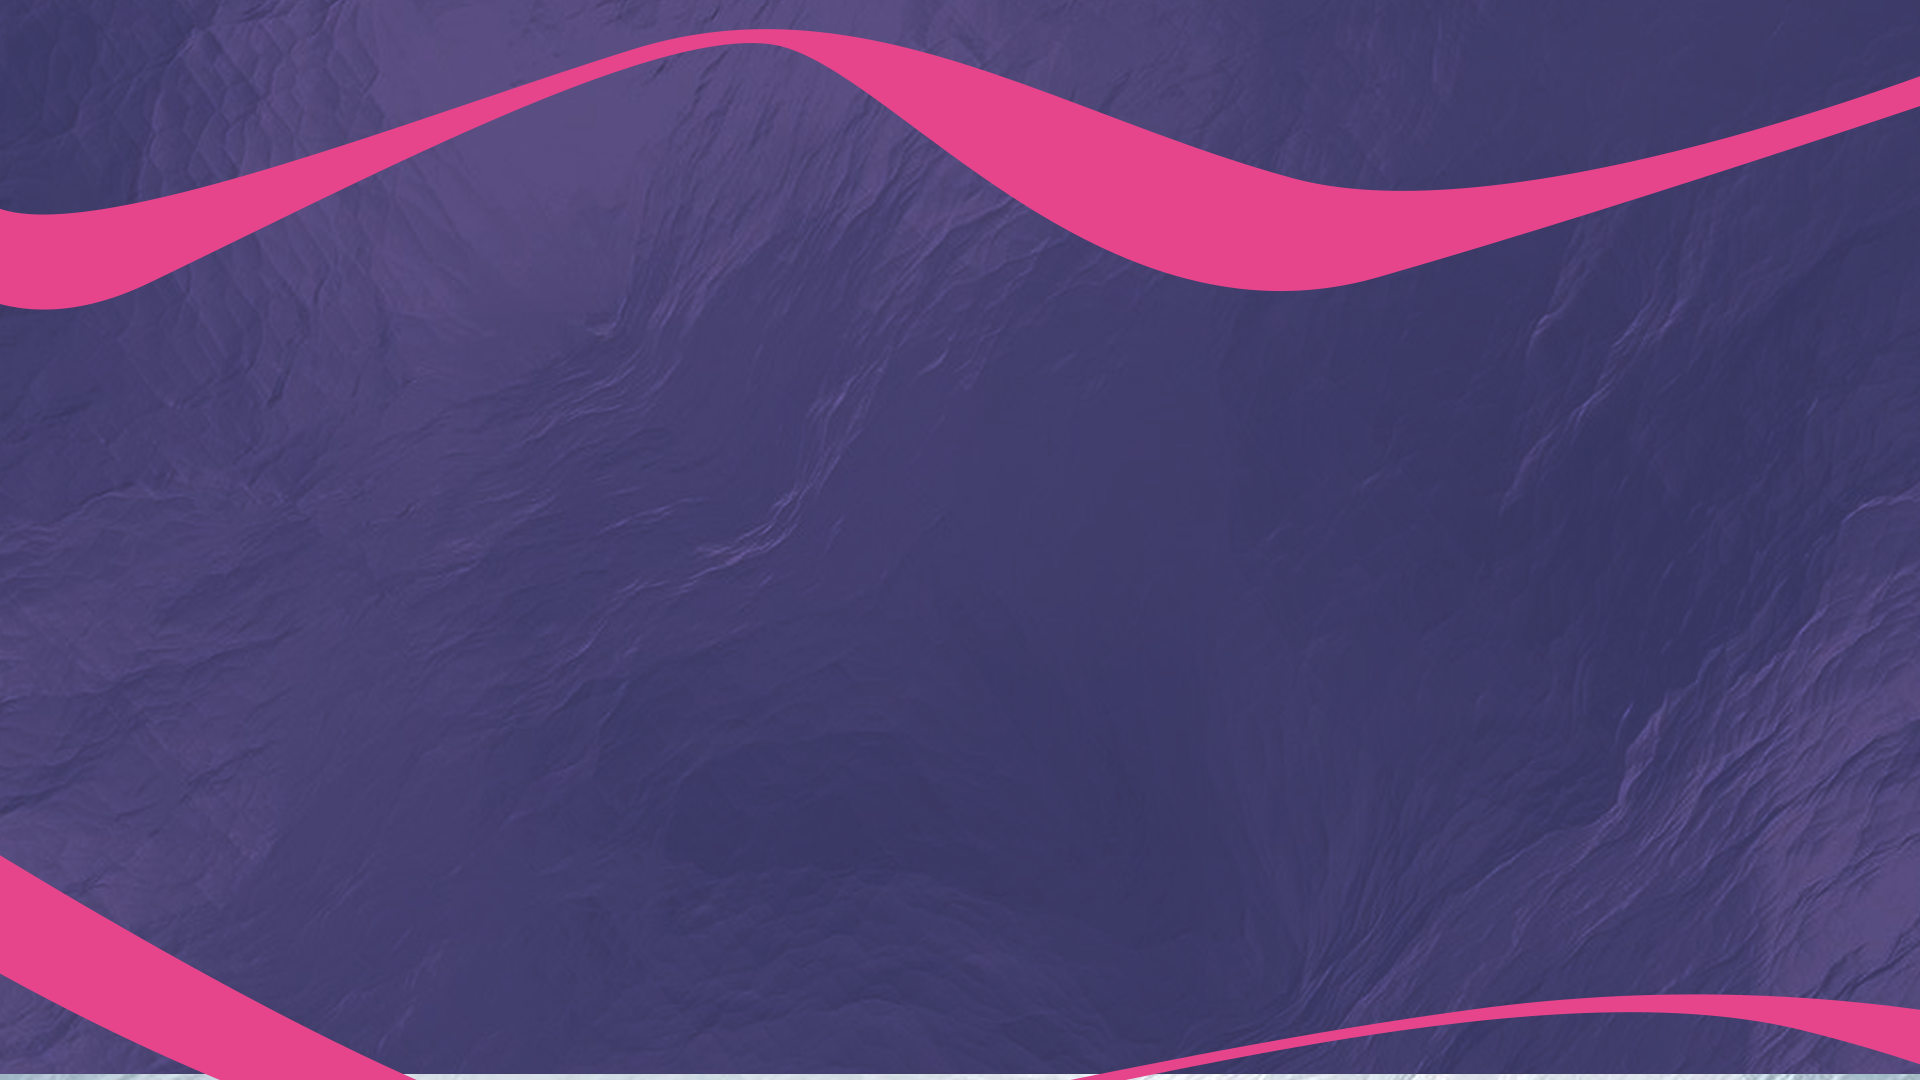
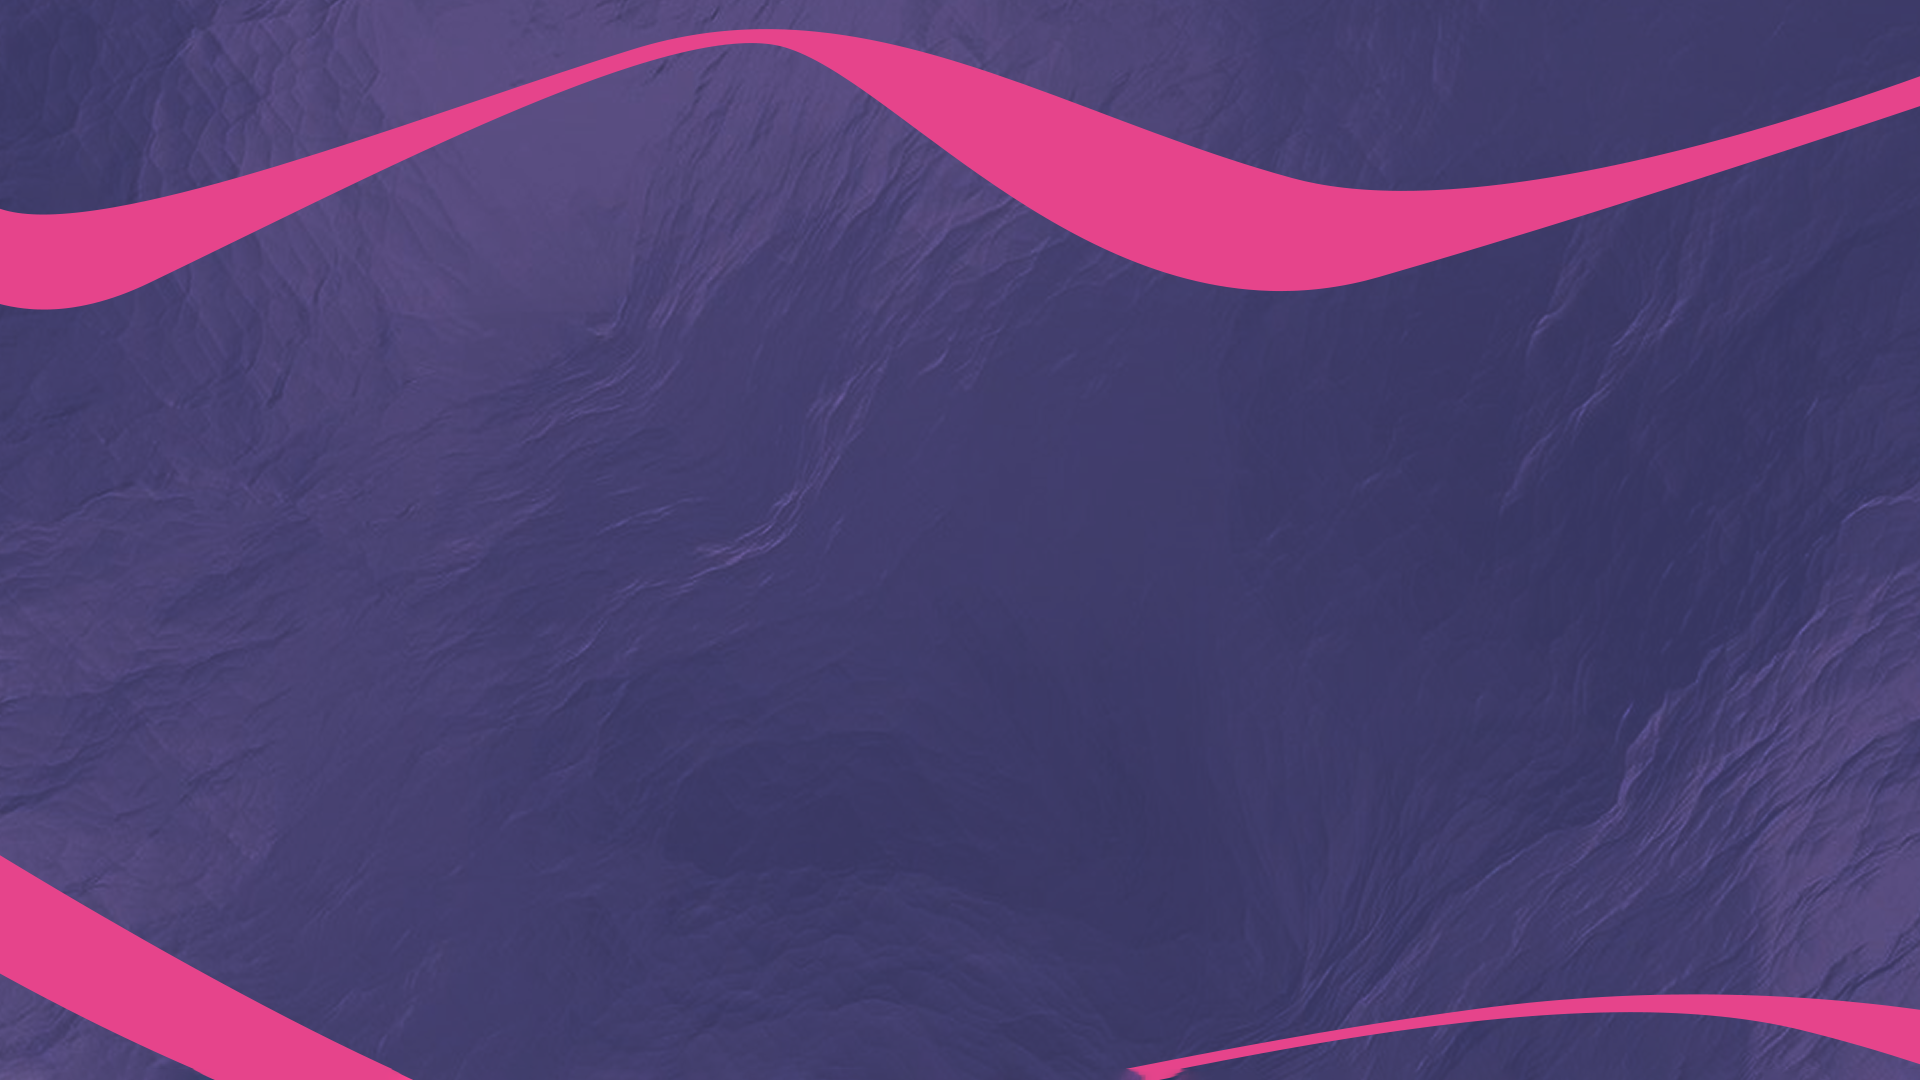
gallery mobile-tablet

Changed region(s): [[0.2188, 0.9778, 1.0, 1.0], [0.0, 0.9778, 0.125, 1.0]]

diff --git a/index.html b/index.html
@@ -114,8 +114,8 @@
     </section>
 
     <section id="client" class="flex items-center">
-        <div class="flex flex-col items-center w-full h-full p-8">
-            <h1 class="text-white text-4xl md:text-6xl 2xl:text-8xl font-black capitalize relative">OUR CLIENT</h1>
+        <div class="flex flex-col items-center w-full h-full p-12">
+            <h1 class="text-white text-4xl md:text-6xl 2xl:text-8xl font-black capitalize relative my-6">OUR CLIENT</h1>
             <div class="wrapper h-full w-full md:w-2/3 xl:w-1/2 flex flex-wrap items-center justify-center my-10">
                 <div class="w-1/4 p-3 md:p-6">
                     <div
@@ -197,6 +197,50 @@
                         class="client w-16 h-16 md:w-32 md:h-32 xl:w-28 xl:h-28 2xl:w-36 2xl:h-36 rounded-2xl md:rounded-3xl">
                     </div>
                 </div>
+            </div>
+        </div>
+    </section>
+
+    <section id="gallery" class="flex items-center">
+        <div class="flex flex-col items-center w-full h-full py-12">
+            <h1 class="text-white text-xl bg-neutral-800 rounded-md p-3">Gallery</h1>
+            <div class="wrapper h-full w-full md:w-3/4 flex flex-wrap items-center justify-center my-10">
+                <div class="w-1/2 md:w-1/3 xl:w-1/4 p-3 md:p-6">
+                    <div class="border-2 border-pink-500 rounded-lg bg-blue-100 h-72 mt-4"></div>
+                </div>
+                <div class="w-1/2 md:w-1/3 xl:w-1/4 p-3 md:p-6">
+                    <div class="border-2 border-pink-500 rounded-lg bg-blue-100 h-72 mt-[-6rem] md:mt-[-3rem]"></div>
+                </div>
+                <div class="w-1/2 md:w-1/3 xl:w-1/4 p-3 md:p-6">
+                    <div class="border-2 border-pink-500 rounded-lg bg-blue-100 h-72 mt-4"></div>
+                </div>
+                <div class="w-1/2 md:w-1/3 xl:w-1/4 p-3 md:p-6">
+                    <div class="border-2 border-pink-500 rounded-lg bg-blue-100 h-72 mt-[-6rem] md:mt-[-3rem]"></div>
+                </div>
+                <!-- <div class="w-1/2 md:w-1/3 xl:w-1/4 p-3 md:p-6">
+                    <div class="border-2 border-pink-500 rounded-lg bg-blue-100 h-72 mt-4"></div>
+                </div>
+                <div class="w-1/2 md:w-1/3 xl:w-1/4 p-3 md:p-6">
+                    <div class="border-2 border-pink-500 rounded-lg bg-blue-100 h-72 mt-[-6rem] md:mt-[-3rem]"></div>
+                </div>
+                <div class="w-1/2 md:w-1/3 xl:w-1/4 p-3 md:p-6">
+                    <div class="border-2 border-pink-500 rounded-lg bg-blue-100 h-72 mt-4"></div>
+                </div>
+                <div class="w-1/2 md:w-1/3 xl:w-1/4 p-3 md:p-6">
+                    <div class="border-2 border-pink-500 rounded-lg bg-blue-100 h-72 mt-[-6rem] md:mt-[-3rem]"></div>
+                </div>
+                <div class="w-1/2 md:w-1/3 xl:w-1/4 p-3 md:p-6">
+                    <div class="border-2 border-pink-500 rounded-lg bg-blue-100 h-72 mt-4"></div>
+                </div>
+                <div class="w-1/2 md:w-1/3 xl:w-1/4 p-3 md:p-6">
+                    <div class="border-2 border-pink-500 rounded-lg bg-blue-100 h-72 mt-[-6rem] md:mt-[-3rem]"></div>
+                </div>
+                <div class="w-1/2 md:w-1/3 xl:w-1/4 p-3 md:p-6">
+                    <div class="border-2 border-pink-500 rounded-lg bg-blue-100 h-72 mt-4"></div>
+                </div>
+                <div class="w-1/2 md:w-1/3 xl:w-1/4 p-3 md:p-6">
+                    <div class="border-2 border-pink-500 rounded-lg bg-blue-100 h-72 mt-[-6rem] md:mt-[-3rem]"></div>
+                </div> -->
             </div>
         </div>
     </section>

diff --git a/src/css/custom.css b/src/css/custom.css
@@ -158,6 +158,13 @@
   background-color: #fff;
 }
 
+#gallery {
+  min-height: 80vh;
+  background-image: url("../img/gallery-background.png");
+  background-size: cover;
+  background-position: center;
+}
+
 /* Tablet */
 @media only screen and (min-width: 768px) {
   .nav-wrapper {
